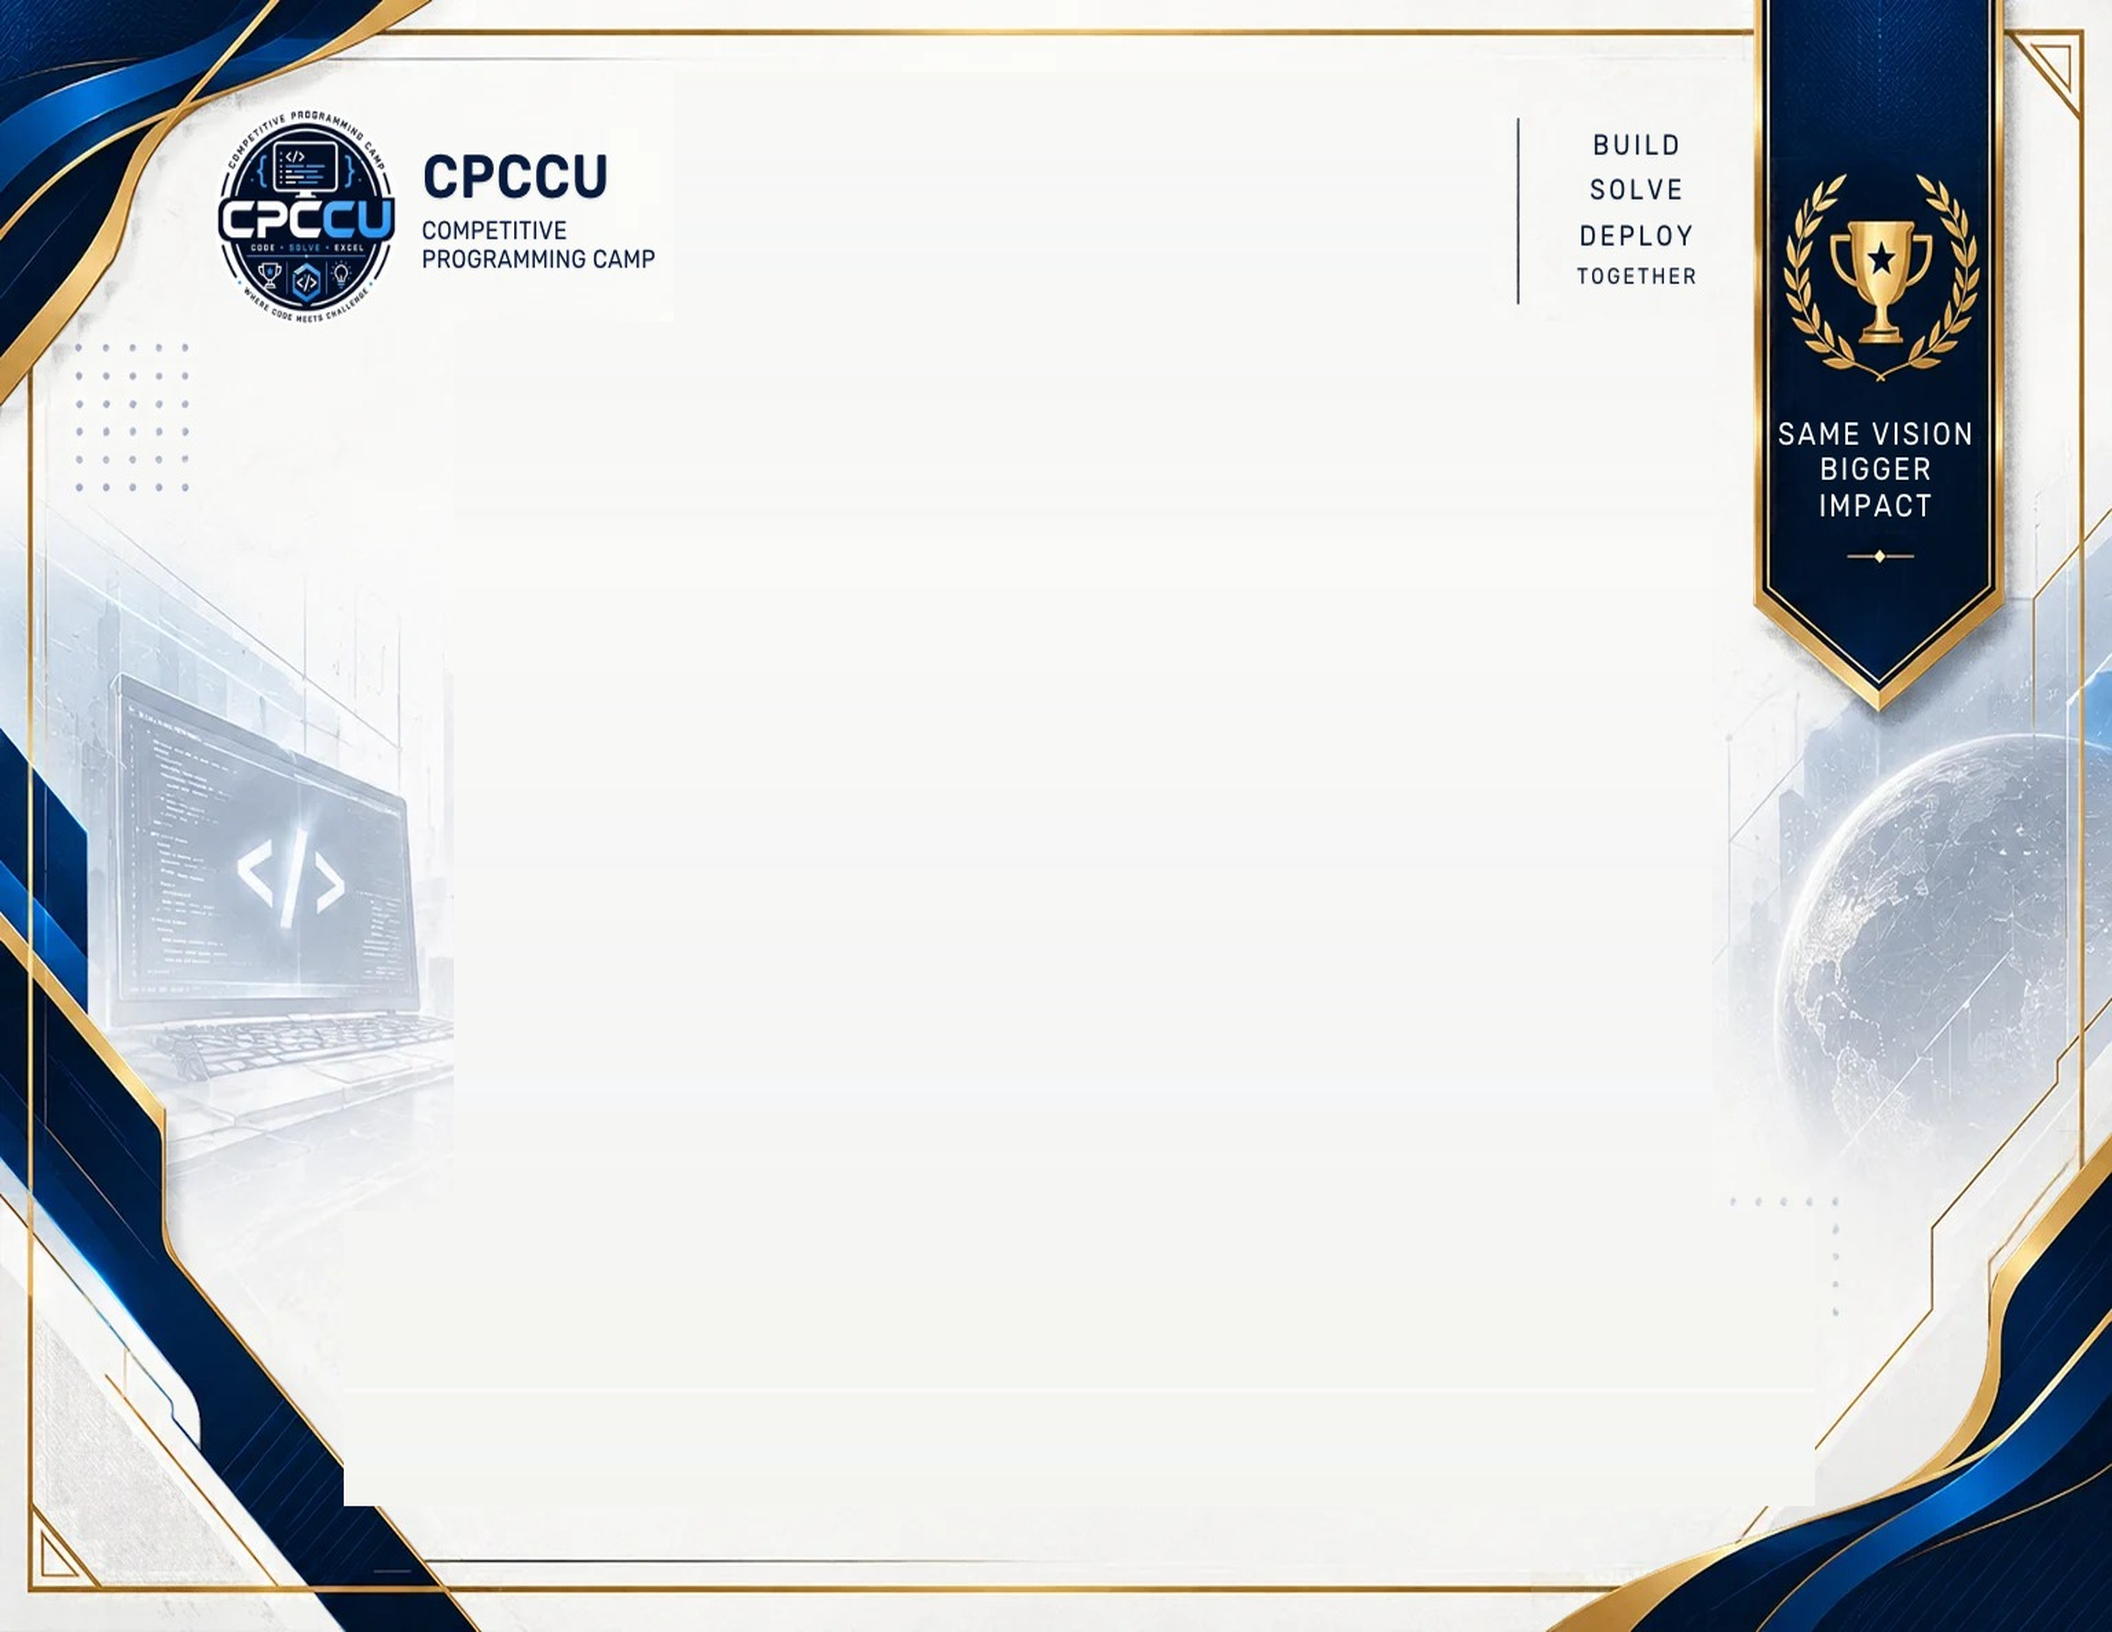
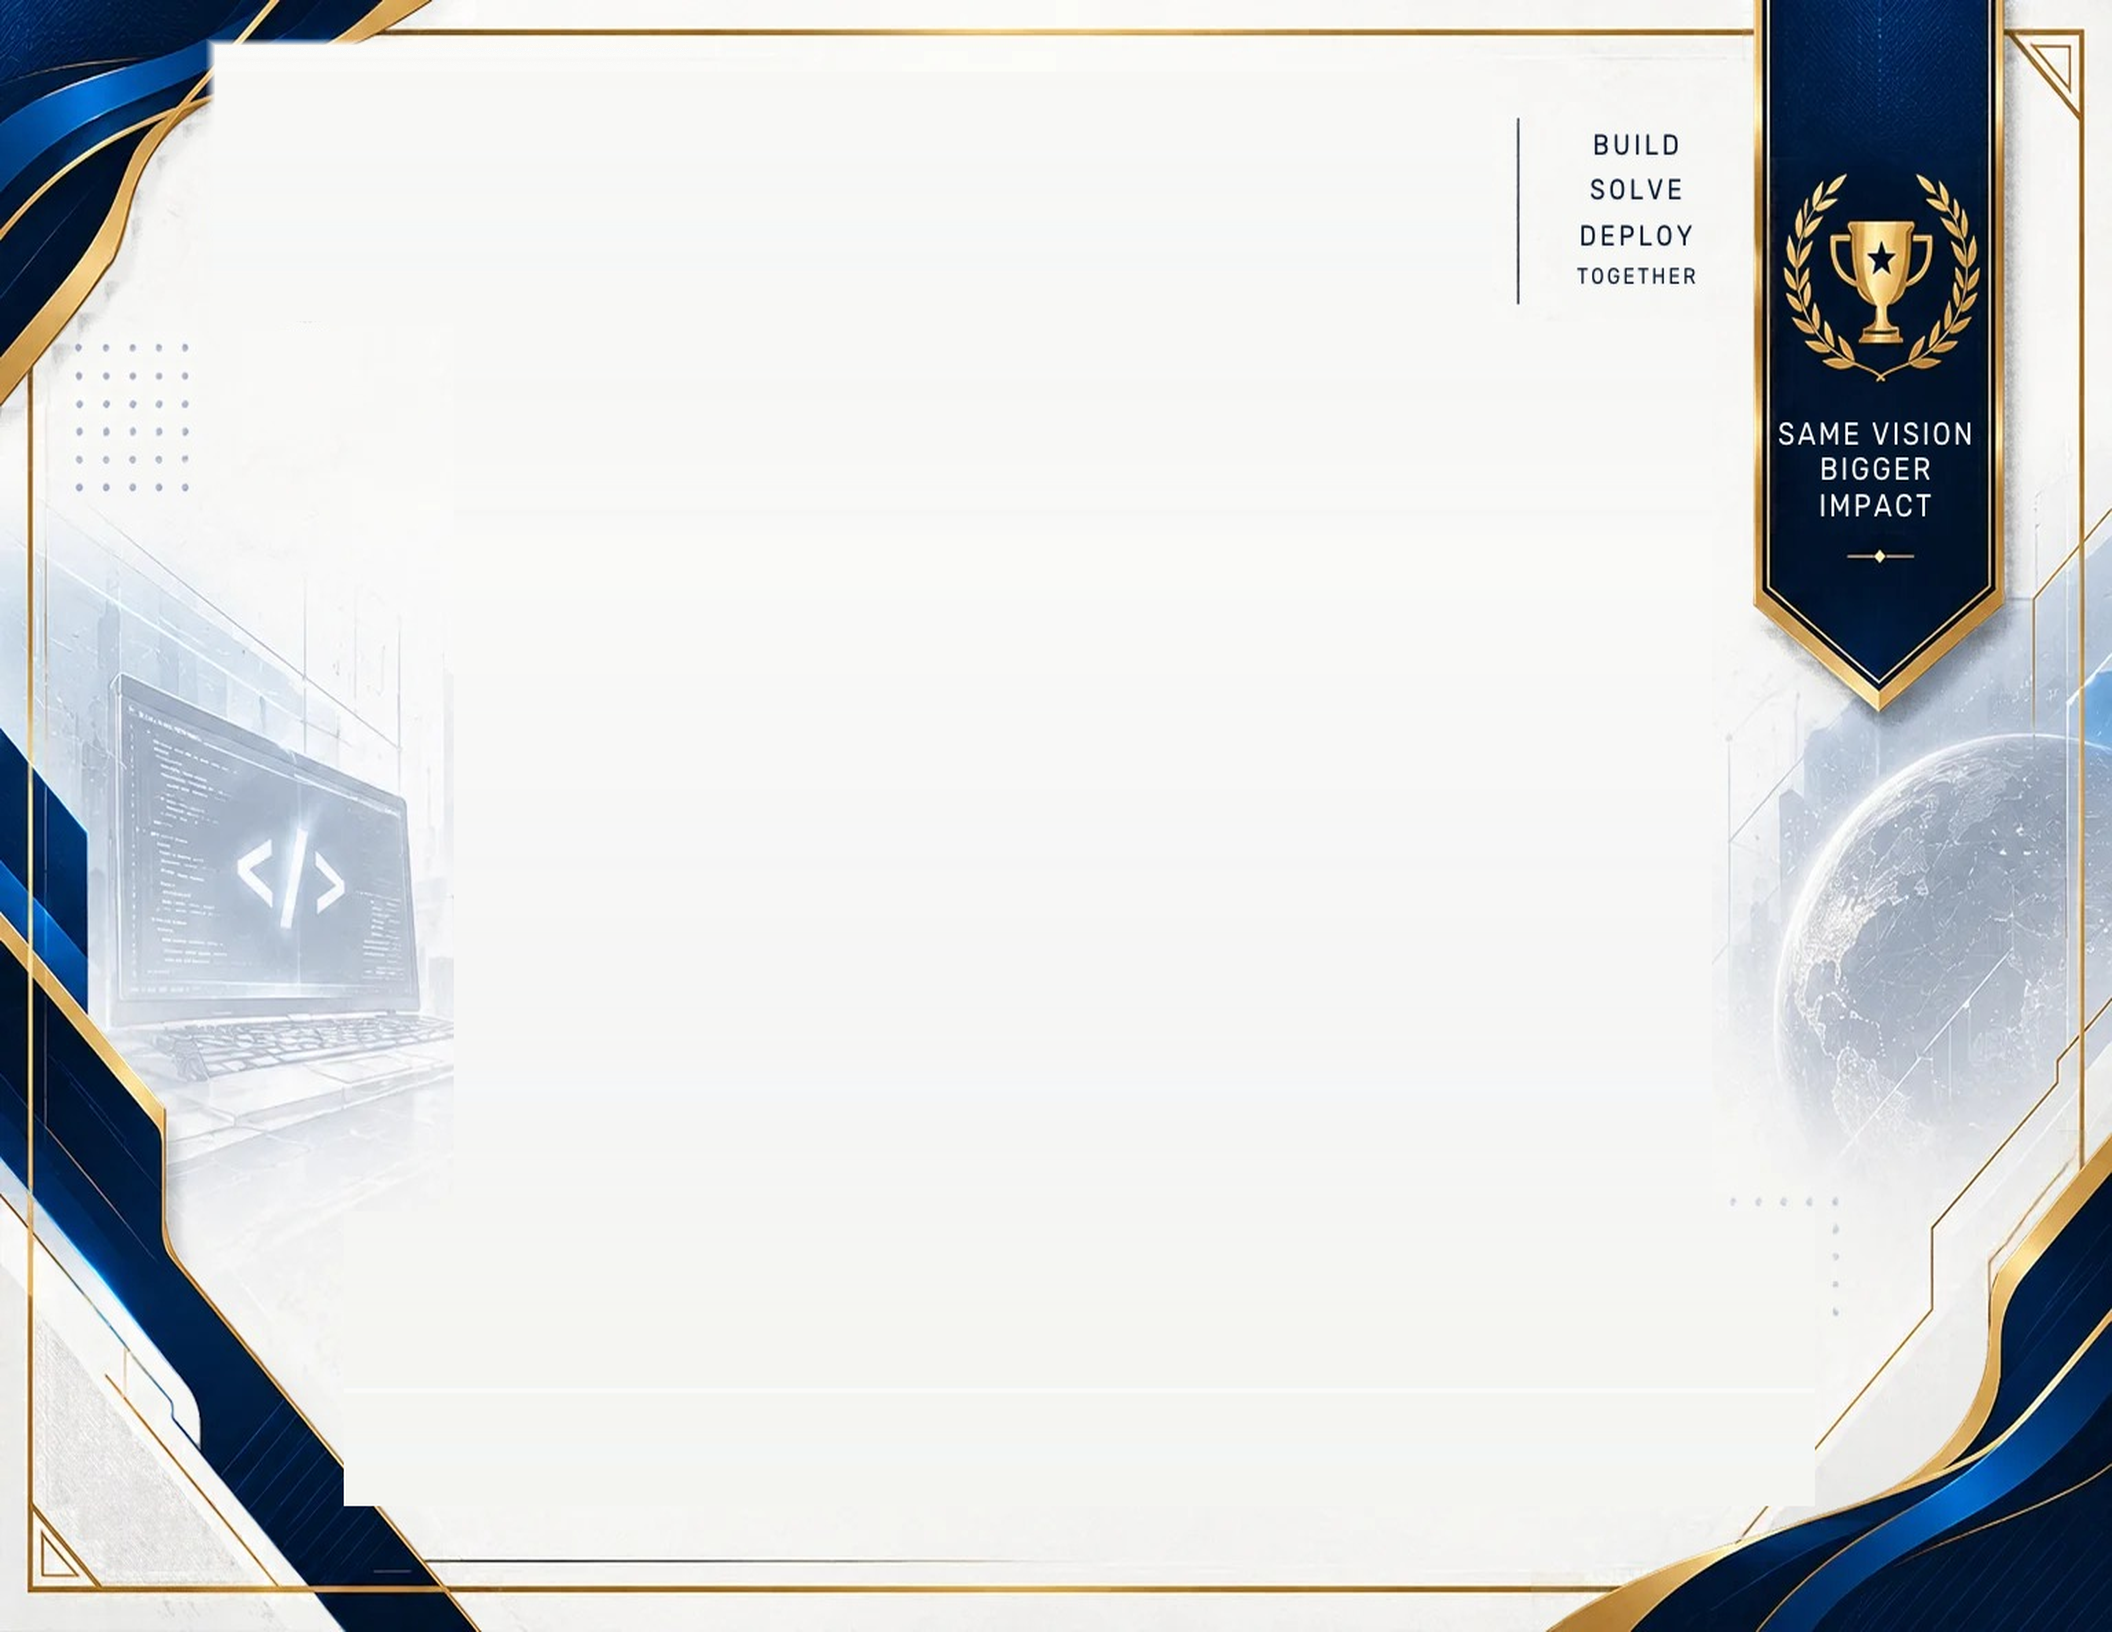
feat(certificates): add dynamic club branding to platinum certificate templates

Changed region(s): [[0.0938, 0.0, 0.3125, 0.2188]]

diff --git a/src/components/CERTIFICATE/templates/certificate-platinum.jsx b/src/components/CERTIFICATE/templates/certificate-platinum.jsx
@@ -1,5 +1,7 @@
 'use client';
 
+import InstituteInfo from '@/data/global/institude.json';
+
 import {
   CertificateSheet,
   getRecipientNameFontSize,
@@ -113,9 +115,17 @@ export function PlatinumAppreciation({ view, theme, signatory }) {
     resolvedSignatory?.coordinator?.signatureUrl ||
     '/assets/certificates/signature_vp.png';
 
+  const clubLogo = view?.clubLogo || '/assets/logo/cpccu.png';
+  const clubShortName =
+    view?.clubShortName || InstituteInfo?.shortName || 'CPCCU';
+  const clubFullName =
+    view?.clubFullName ||
+    InstituteInfo?.fullName ||
+    'Competitive Programming Camp';
+
   const presidentName = resolvedSignatory?.president?.name || 'PRESIDENT';
   const presidentTitle =
-    resolvedSignatory?.president?.title || 'COMPETITIVE PROGRAMMING CAMP';
+    resolvedSignatory?.president?.title || clubFullName.toUpperCase();
 
   const vpName =
     resolvedSignatory?.vicePresident?.name ||
@@ -124,7 +134,7 @@ export function PlatinumAppreciation({ view, theme, signatory }) {
   const vpTitle =
     resolvedSignatory?.vicePresident?.title ||
     resolvedSignatory?.coordinator?.title ||
-    'COMPETITIVE PROGRAMMING CAMP';
+    clubFullName.toUpperCase();
 
   const isDefaultContest =
     !view.contestName ||
@@ -175,6 +185,80 @@ export function PlatinumAppreciation({ view, theme, signatory }) {
           userSelect: 'none',
         }}
       />
+
+      {/* Top Left: Dynamic Club Logo & Name */}
+      <div
+        style={{
+          position: 'absolute',
+          top: 22,
+          left: 104,
+          display: 'flex',
+          alignItems: 'center',
+          zIndex: 5,
+        }}
+      >
+        <img
+          src={clubLogo}
+          alt={InstituteInfo?.alt || 'Club Logo'}
+          crossOrigin="anonymous"
+          style={{
+            width: 92,
+            height: 92,
+            objectFit: 'contain',
+            borderRadius: '50%',
+            flexShrink: 0,
+          }}
+        />
+        <div
+          style={{
+            display: 'flex',
+            flexDirection: 'column',
+            justifyContent: 'center',
+            marginLeft: 10,
+          }}
+        >
+          <span
+            style={{
+              fontFamily:
+                "ui-sans-serif, system-ui, -apple-system, BlinkMacSystemFont, 'Segoe UI', Roboto, 'Helvetica Neue', Arial, sans-serif",
+              fontSize: 30,
+              fontWeight: 900,
+              color: '#0B1B3D',
+              letterSpacing: '0.04em',
+              lineHeight: 1,
+            }}
+          >
+            {clubShortName}
+          </span>
+          <span
+            style={{
+              marginTop: 4,
+              maxWidth: 135,
+              fontFamily:
+                "ui-sans-serif, system-ui, -apple-system, BlinkMacSystemFont, 'Segoe UI', Roboto, 'Helvetica Neue', Arial, sans-serif",
+              fontSize: 10,
+              fontWeight: 700,
+              color: '#0B1B3D',
+              letterSpacing: '0.06em',
+              textTransform: 'uppercase',
+              lineHeight: 1.25,
+            }}
+          >
+            {clubFullName}
+          </span>
+        </div>
+
+        {/* Subtle vertical divider line separating club branding from event header */}
+        <div
+          style={{
+            width: 1,
+            height: 52,
+            background: '#CBD5E1',
+            marginLeft: 12,
+            flexShrink: 0,
+          }}
+        />
+      </div>
 
       {/* Top Center: Event & Contest Header */}
       <div
@@ -617,7 +701,7 @@ export function PlatinumAppreciation({ view, theme, signatory }) {
               textAlign: 'center',
             }}
           >
-            (CPCCU)
+            ({clubShortName})
           </span>
         </div>
       </div>
@@ -716,7 +800,7 @@ export function PlatinumParticipation({ view, theme, signatory }) {
             textTransform: 'uppercase',
           }}
         >
-          CITY UNIVERSITY
+          {view?.universityName || InstituteInfo?.uniName || 'CITY UNIVERSITY'}
         </h2>
         <p
           style={{
@@ -727,7 +811,10 @@ export function PlatinumParticipation({ view, theme, signatory }) {
             color: '#1E293B',
           }}
         >
-          Competitive Programming Camp City University
+          {view?.clubFullName ||
+            (InstituteInfo?.fullName
+              ? `${InstituteInfo.fullName} ${InstituteInfo.uniName || ''}`.trim()
+              : 'Competitive Programming Camp City University')}
         </p>
 
         <DiamondDivider width={160} color="#C5A059" style={{ margin: '10px auto' }} />
@@ -1129,7 +1216,7 @@ export function PlatinumAchievement({ view, theme, signatory }) {
             textTransform: 'uppercase',
           }}
         >
-          CITY UNIVERSITY
+          {view?.universityName || InstituteInfo?.uniName || 'CITY UNIVERSITY'}
         </h2>
         <p
           style={{
@@ -1140,7 +1227,10 @@ export function PlatinumAchievement({ view, theme, signatory }) {
             color: '#1E293B',
           }}
         >
-          Competitive Programming Camp City University
+          {view?.clubFullName ||
+            (InstituteInfo?.fullName
+              ? `${InstituteInfo.fullName} ${InstituteInfo.uniName || ''}`.trim()
+              : 'Competitive Programming Camp City University')}
         </p>
 
         <DiamondDivider width={160} color="#C5A059" style={{ margin: '10px auto' }} />
